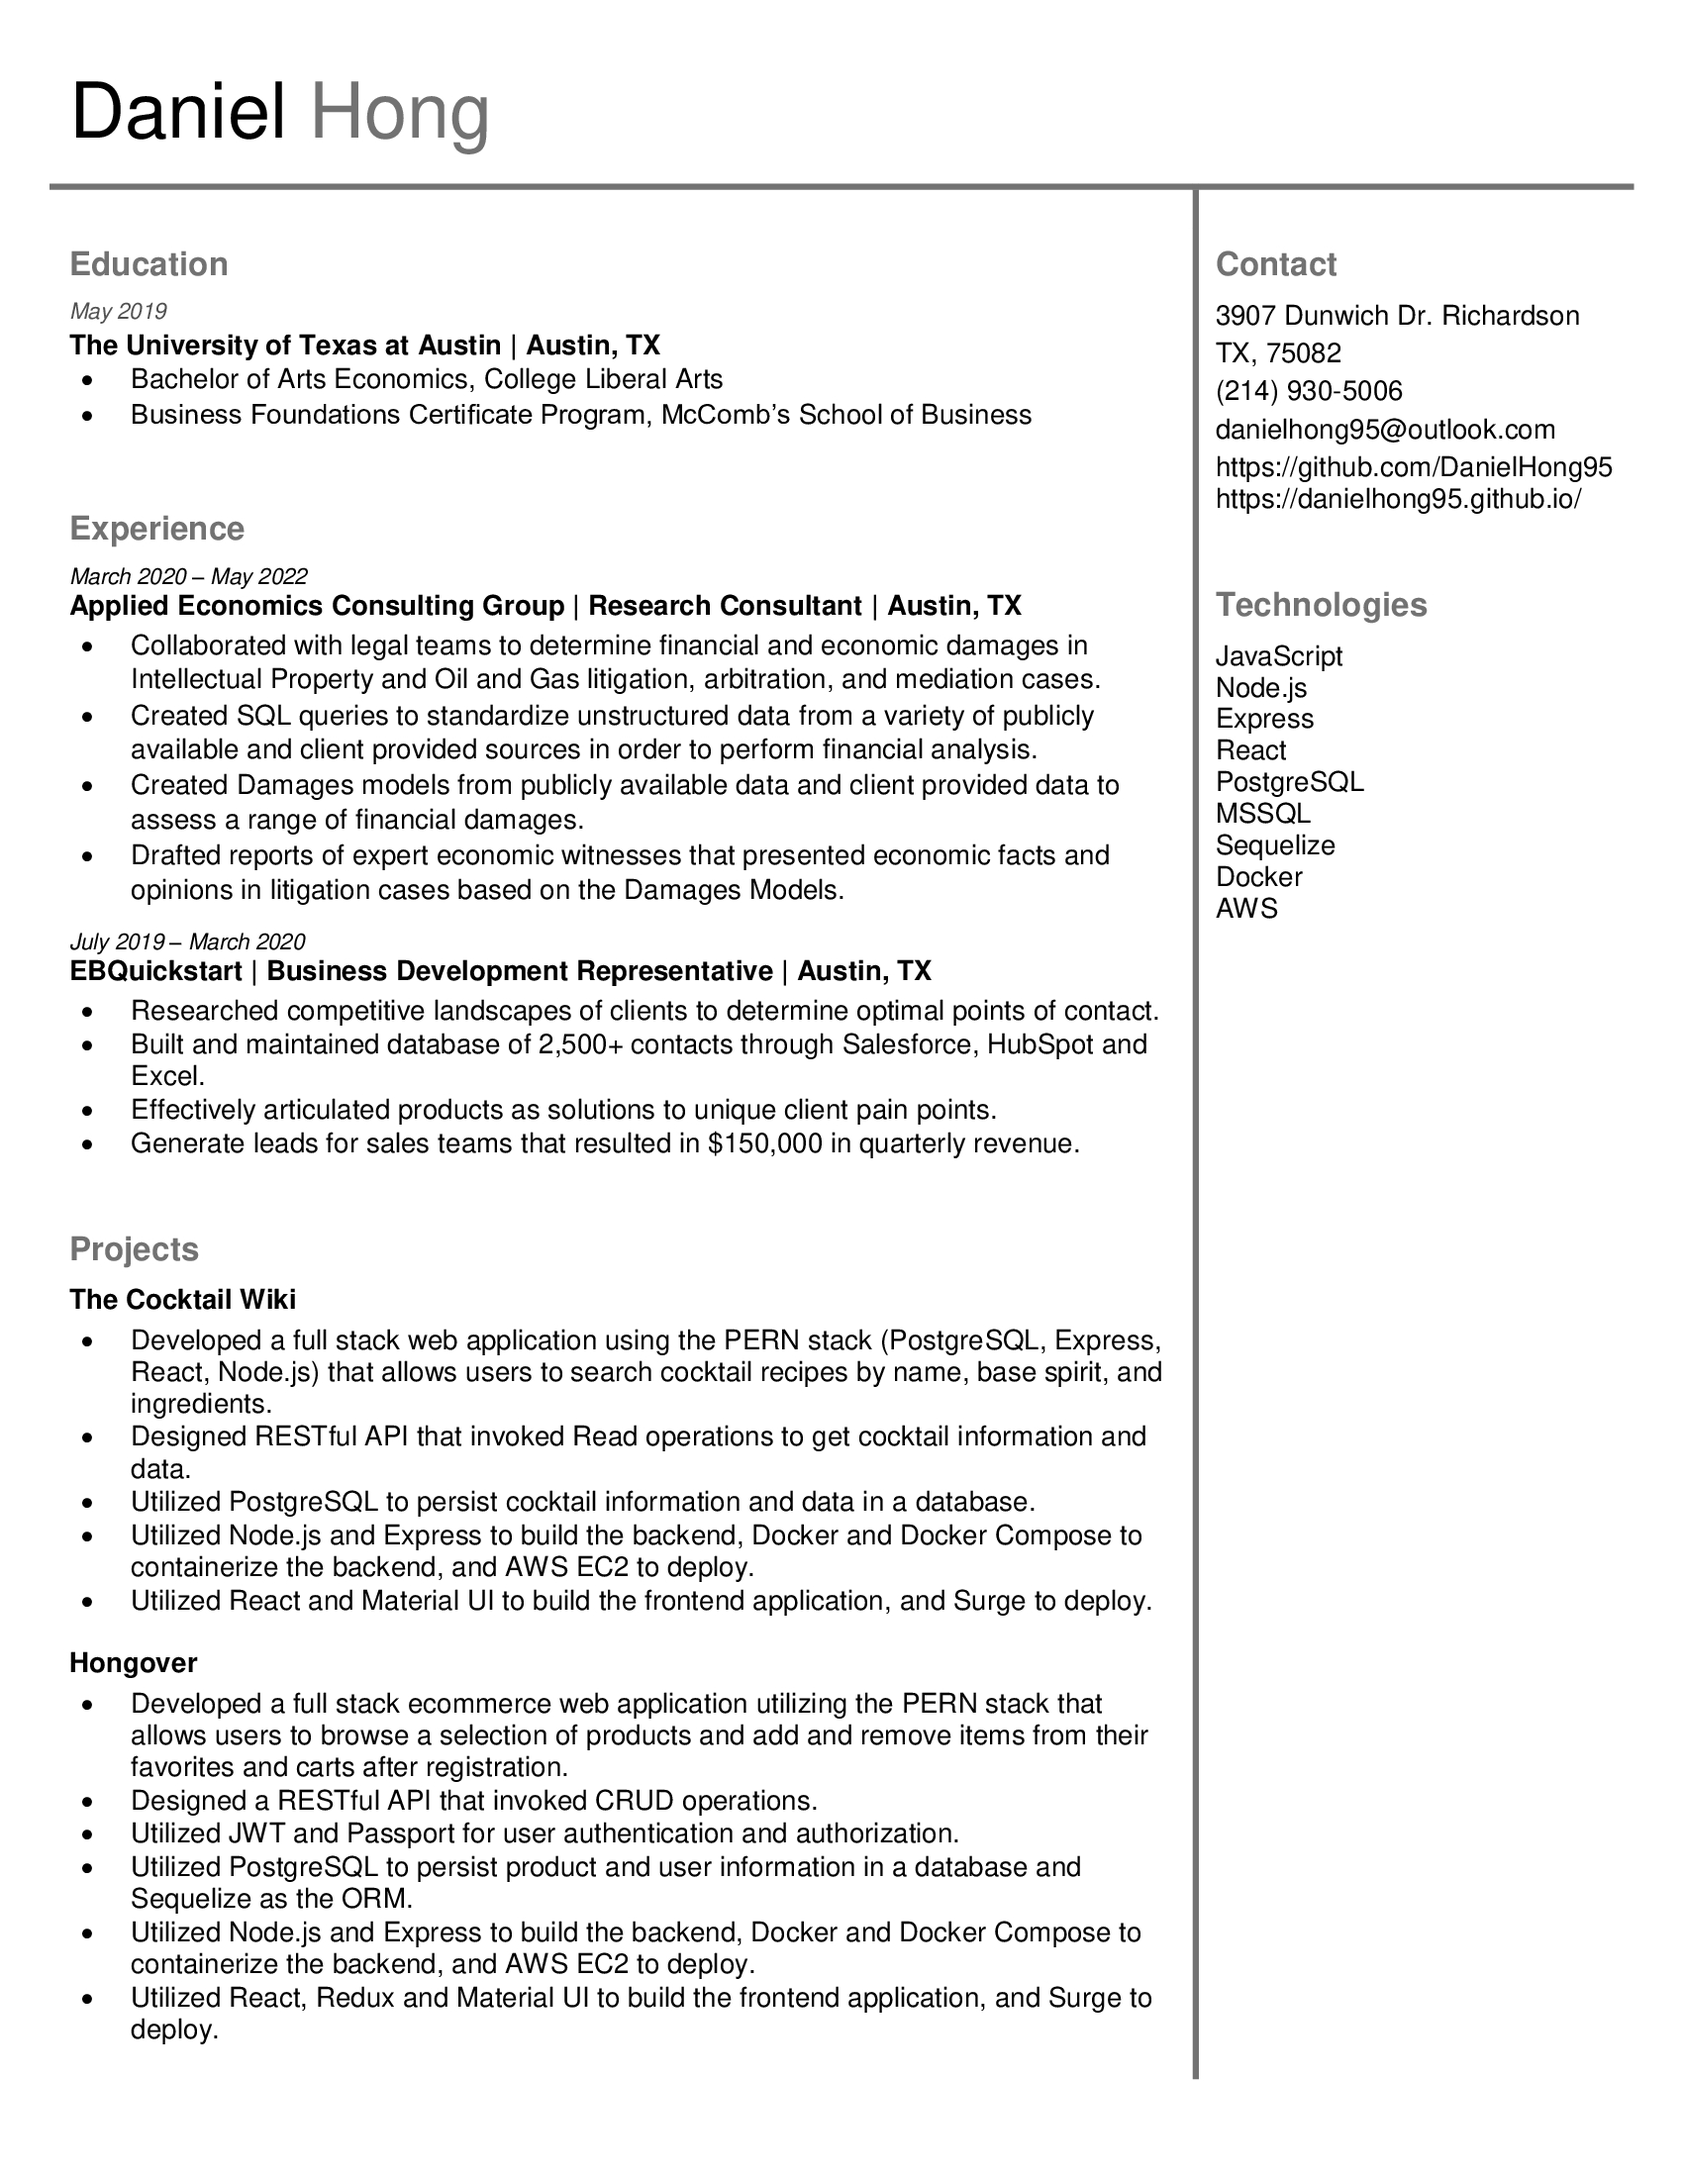
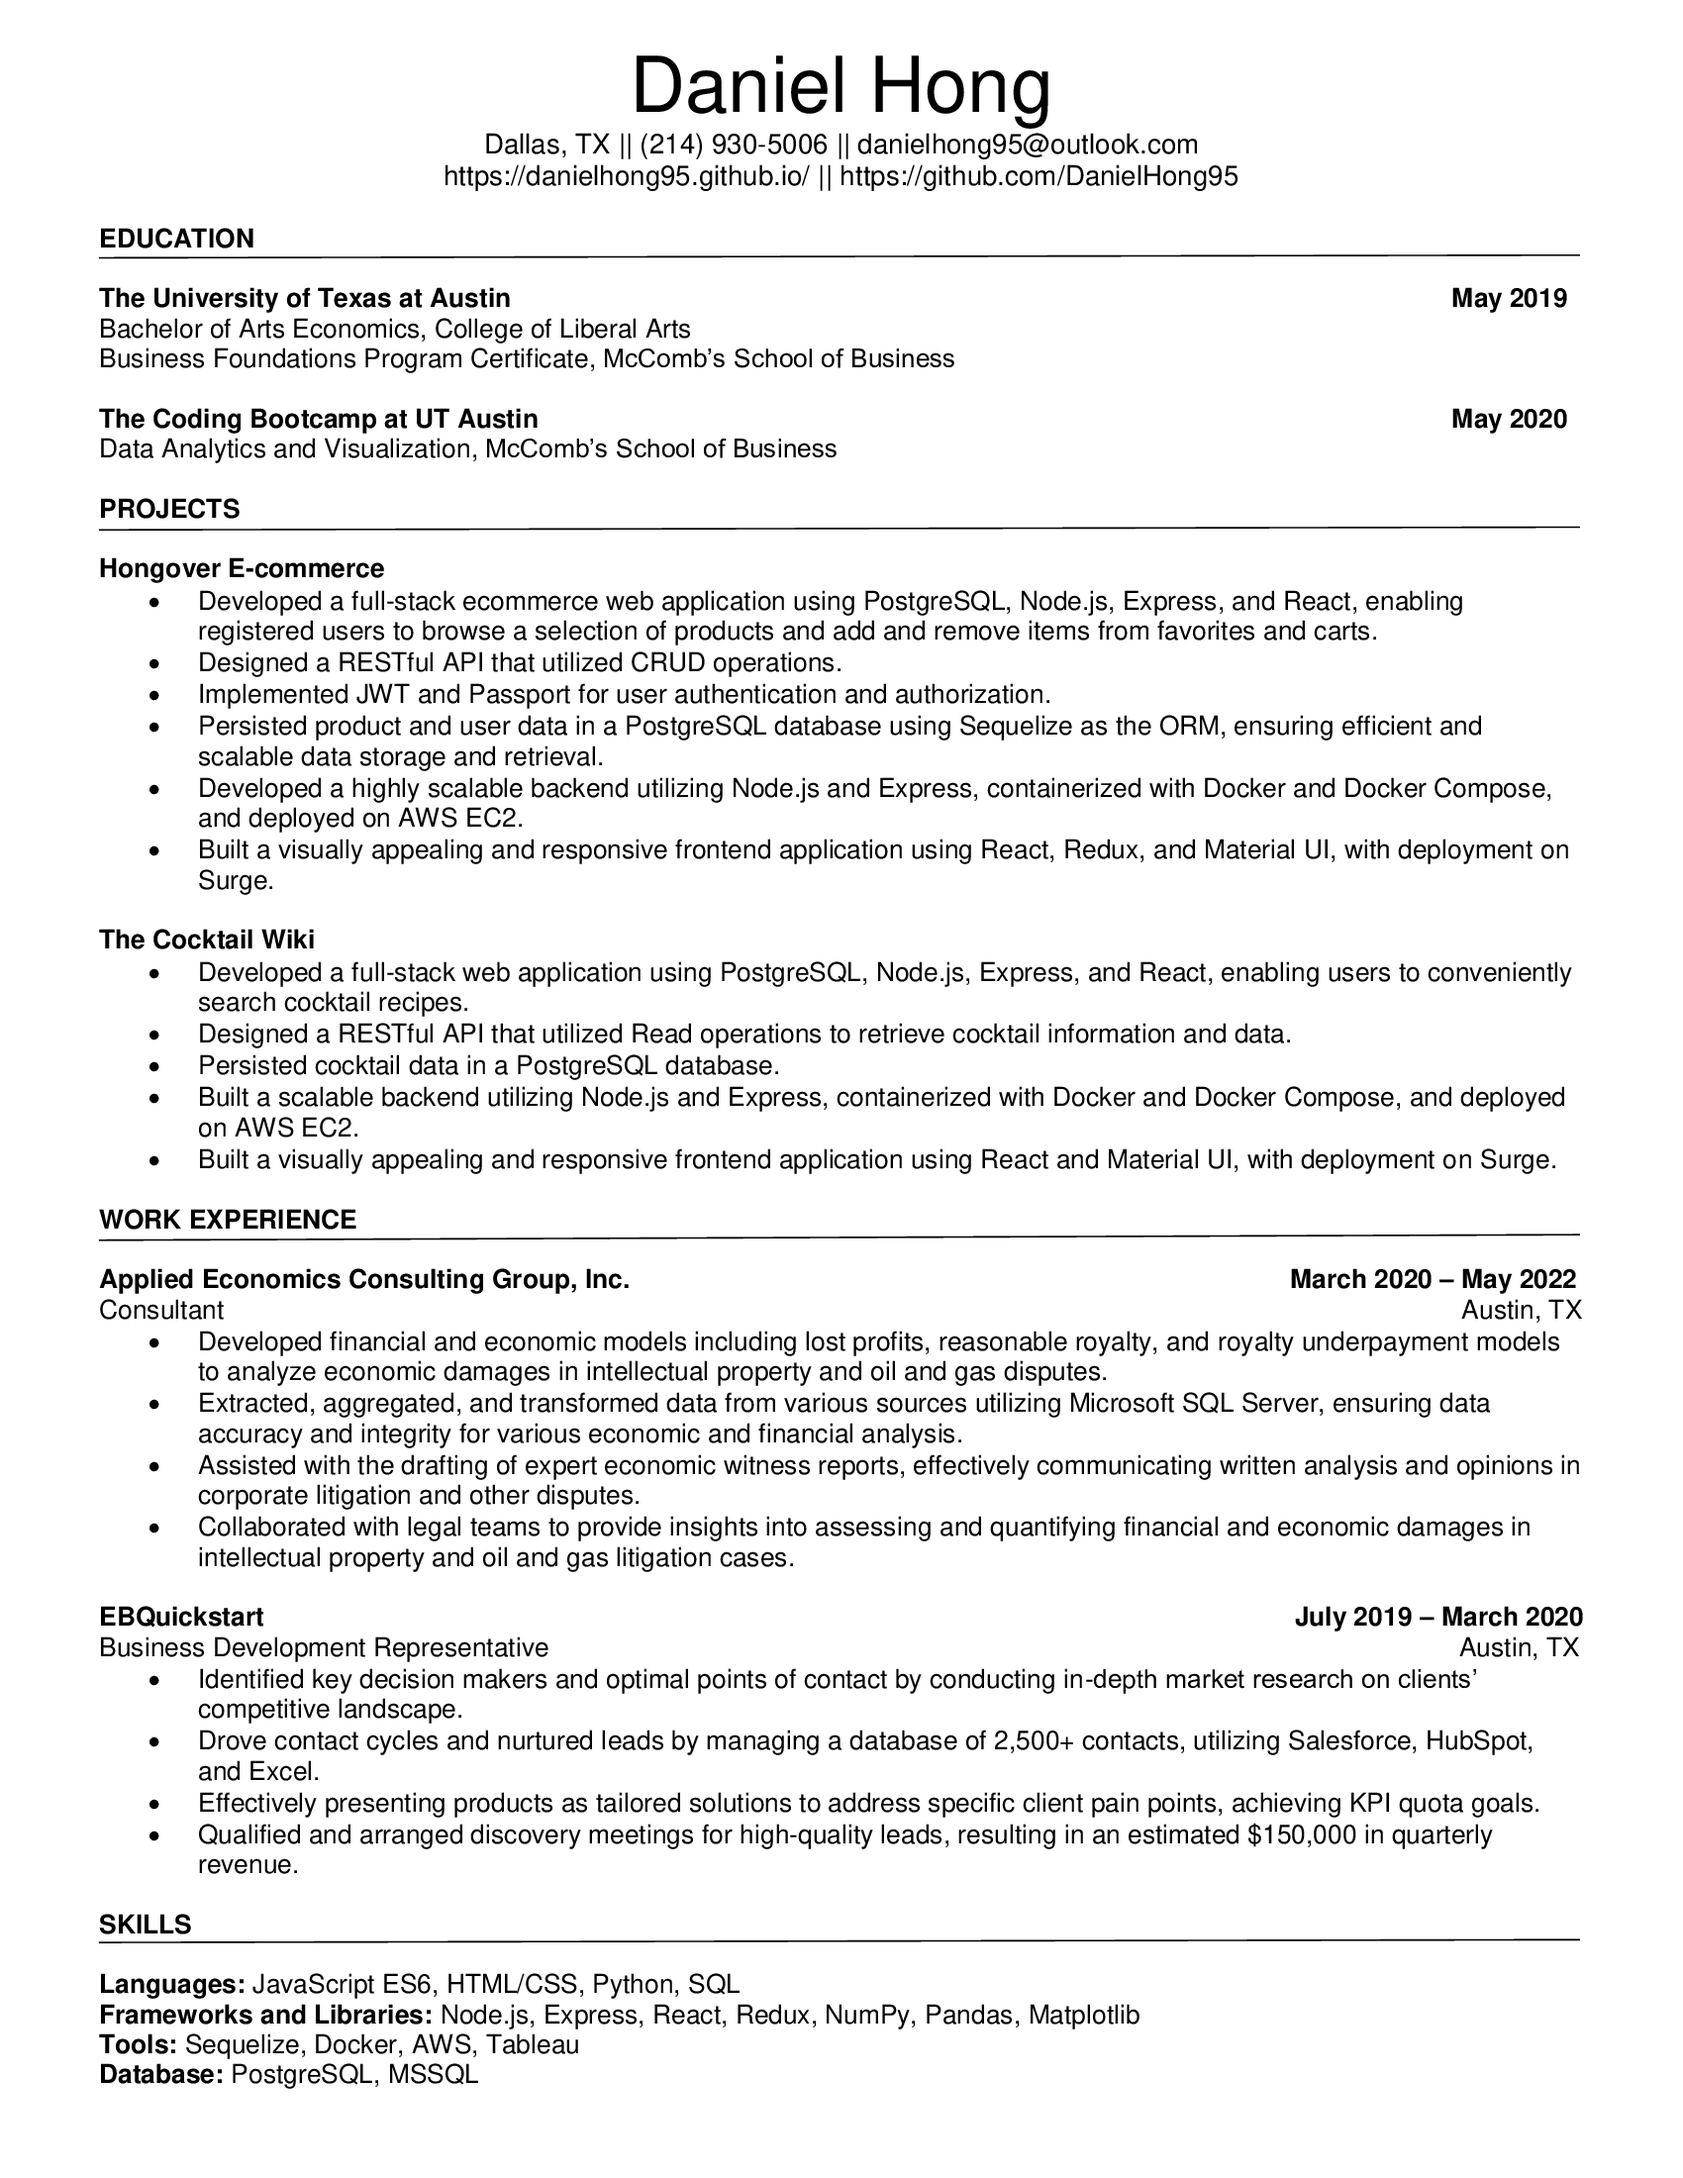
resume update

Changed region(s): [[0.0312, 0.0309, 0.9665, 0.9582], [0.8418, 0.4945, 0.9353, 0.5255], [0.8729, 0.4327, 0.9353, 0.4636]]

diff --git a/index.html b/index.html
@@ -68,7 +68,7 @@
 						<!-- Resume -->
 							<article id="resume">
 								<h2 class="major">Resume</h2>
-								<span class="image main"><img src="images/Daniel-Hong-Resume-SWE-3.jpg" alt="" /></span>
+								<span class="image main"><img src="images/Daniel-Hong-Resume-SWE.jpg" alt="" /></span>
 							</article>
 
 						<!-- Contact -->
